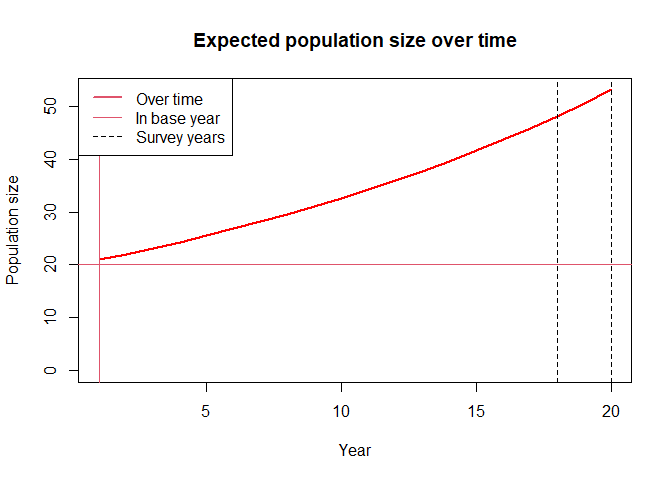
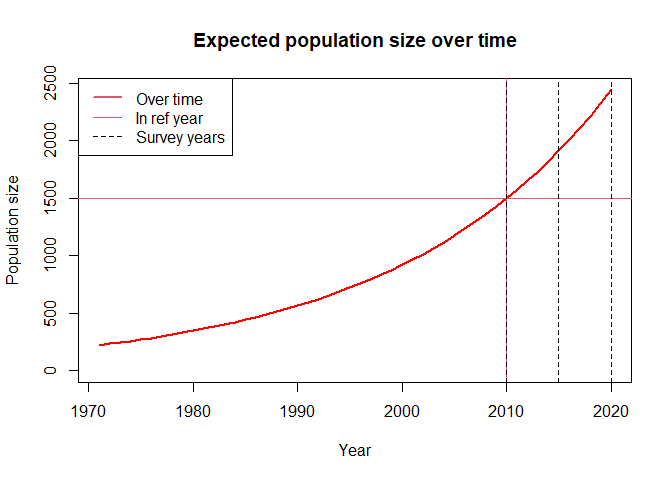
Added vignette, updated example.

diff --git a/README.md b/README.md
@@ -28,11 +28,30 @@ population and a sampling-survey study of it:
 # Load close-kin utilities package
 library(ckutils)
 
+# Population size in reference year
+ref_yr = 2010
+exp_N_ref = 1500
+
+# Population growth rate
+lambda = 1.05
+
+# Survey years
+srvy_yrs = c(2010, 2015, 2020)
+
+# Simulation length
+sim_len = 50
+
+# Simulation years
+fnl_yr = tail(srvy_yrs, 1)
+init_yr = fnl_yr - sim_len + 1
+sim_yrs = init_yr:fnl_yr
+
+# Expected population size over simulation years
+exp_N_init = exp_N_ref * lambda^(init_yr - ref_yr)
+exp_N_t = exp_N_init * lambda^(0:(sim_len - 1))
+
 # Plot the expected population size for a particular scenario
-plot_exp_pop(
-  sim_years = 1:20, exp_N_t = 20*1.05^(1:20), base_yr = 1, exp_N_base = 20,
-  srvy_yrs = c(18, 20)
-)
+plot_exp_pop(sim_yrs, exp_N_t, ref_yr, exp_N_ref, srvy_yrs)
 ```
 
 <img src="man/figures/README-example-1.png" width="100%" />
